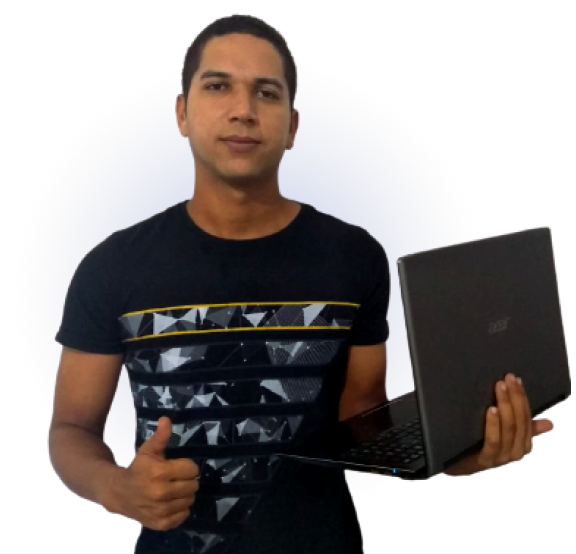
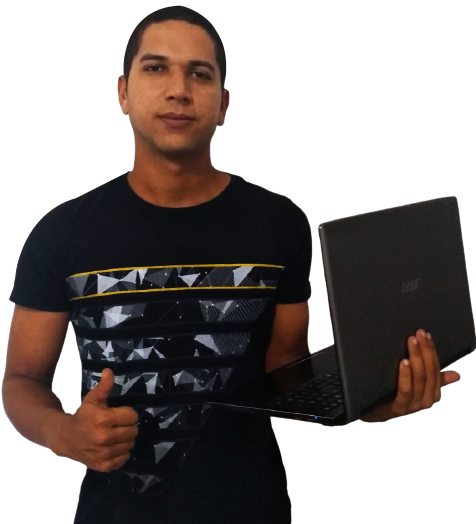
adjust images / delet secondary button

diff --git a/src/pages/Landing/styles.css b/src/pages/Landing/styles.css
@@ -16,8 +16,8 @@
 #landing-page .main-content {
   background-image: url("../../assets/images/img.png");
   background-repeat: no-repeat;
-  background-position: 50rem 6rem;
-  background-size: 21rem;
+  background-position: 50rem 5rem;
+  background-size: 18rem;
   padding-top: 8rem;
   transition: all 0.2s ease-in-out;
 }

diff --git a/src/components/Main/styles.css b/src/components/Main/styles.css
@@ -17,7 +17,7 @@
   justify-content: top;
   flex-direction: column;
   
-  background-color: var(--light-theme);
+  background-color: var(--dark-theme);
   padding: 7rem calc((100vw - 1000px) / 2);
   transition: all 0.2s ease-in-out;
 }

diff --git a/src/pages/About/styles.css b/src/pages/About/styles.css
@@ -8,7 +8,7 @@
   background-image: url("../../assets/images/img2.png");
   background-repeat: no-repeat;
   background-position: 50rem 5rem;
-  background-size: 25rem;
+  background-size: 23rem;
   transition: all 0.2s ease-in-out;
 }
 

diff --git a/src/components/Navbar/styles.css b/src/components/Navbar/styles.css
@@ -37,7 +37,8 @@
 }
 
 .nav-link img {
-  width: 3rem;
+  width: 4rem;
+  margin-top: 0.5rem;
   transition: all 0.2s ease-in-out;
 }
 
